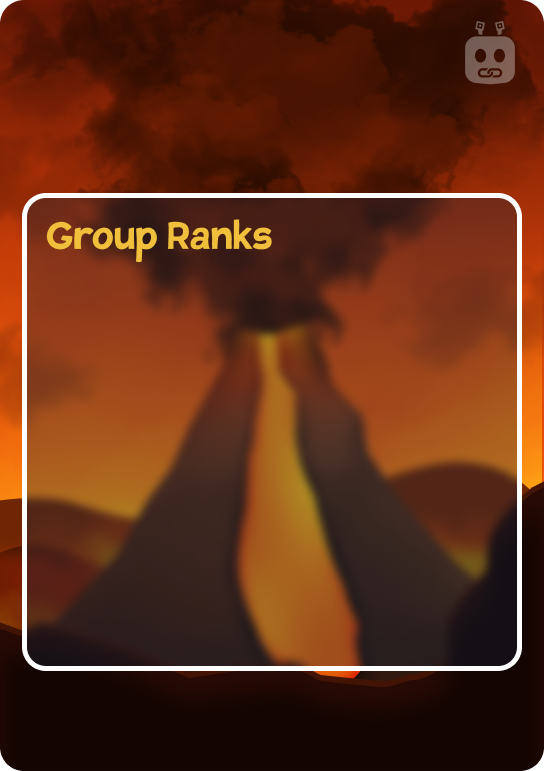
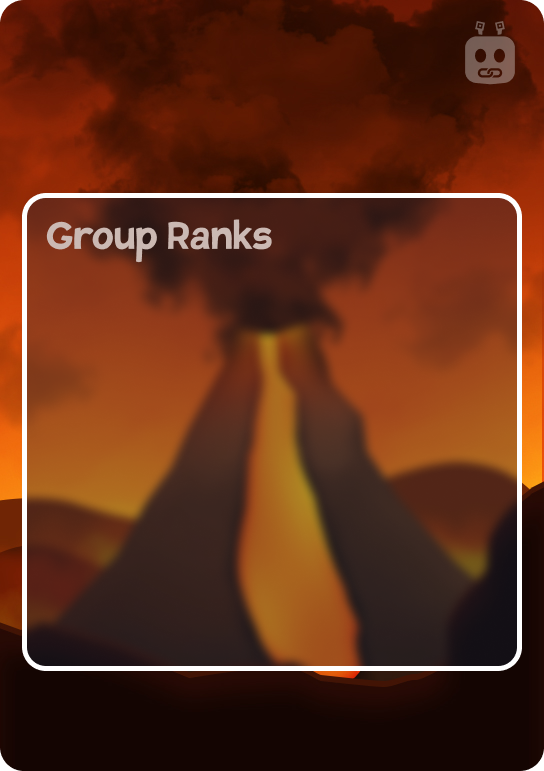
volcano bg update

Changed region(s): [[0.0625, 0.2802, 0.5, 0.3424]]

diff --git a/src/routes/getinfo/front.py b/src/routes/getinfo/front.py
@@ -37,7 +37,12 @@ class Route:
         if banned:
             background = "black"
 
-        background_path = IMAGE_CONFIG.get(background)["paths"]["getinfo"]["front"]
+        background_config = IMAGE_CONFIG[background]
+        background_path = background_config["paths"]["getinfo"]["front"]
+        background_props = background_config.get("props", {})
+        background_hexes = background_config.get("hexes", {})
+
+        primary_color = background_hexes.get("primary_color", (240, 191, 60))
 
         # image storage for closing
         headshot_image = None
@@ -73,17 +78,24 @@ class Route:
 
             if headshot:
                 async with self.session.get(headshot) as resp:
-                    with Image.open("./assets/props/moon.png") as moon_image:
+                    moon_prop = background_props.get("moon", "moon.png")
+                    moon_outline = background_props.get("moon_outline", "moon_outline.png")
+
+                    with Image.open(f"./assets/props/{moon_prop}") as moon_image:
                         with Image.open("./assets/props/moon_outline.png") as moon_outline_image:
                             headshot_buffer = BytesIO(await resp.read())
+
                             headshot_image  = Image.open(headshot_buffer)
                             headshot_image  = headshot_image.resize((220, 220))
 
-                            image.paste(moon_image, (0, 0), moon_image)
-                            image.paste(headshot_image, (160, 70), headshot_image)
+                            if moon_prop:
+                                image.paste(moon_image, (0, 0), moon_image)
 
+                            image.paste(headshot_image, (160, 70), headshot_image)
                             image.paste(background_image, (0, 0), background_image)
-                            image.paste(moon_outline_image, (0, 0), moon_outline_image)
+
+                            if moon_outline:
+                                image.paste(moon_outline_image, (0, 0), moon_outline_image)
 
 
             if overlay:
@@ -112,7 +124,7 @@ class Route:
                         draw.text(
                             ((image.size[0]-width_display_name) / 2, adjusted_name_pos_1),
                             display_name,
-                            (240, 191, 60),
+                            primary_color,
                             font=first_font_size)
 
                         width_username = draw.textsize(username, font=second_font_size)[0]
@@ -138,7 +150,7 @@ class Route:
                 draw.text(
                     (10, roblox_id_age_offset),
                     f"Minted {roblox_age}",
-                    (240, 191, 60),
+                    primary_color,
                     font=self.header5
                 )
 
@@ -146,7 +158,7 @@ class Route:
                 draw.text(
                     (10, roblox_id_age_offset+25),
                     f"#{roblox_id}",
-                    (240, 191, 60),
+                    primary_color,
                     font=self.header5
                 )
 

diff --git a/src/routes/verify/front.py b/src/routes/verify/front.py
@@ -27,7 +27,9 @@ class Route:
         display_name = request.args.get("display_name")
         headshot     = request.args.get("headshot")
 
-        background_path = IMAGE_CONFIG[background]["paths"]["verify"]["front"]
+        background_config = IMAGE_CONFIG[background]
+        background_path = background_config["paths"]["verify"]["front"]
+        background_props = background_config.get("props", {})
 
         # image storage for closing
         headshot_image = None
@@ -63,17 +65,24 @@ class Route:
 
             if headshot:
                 async with self.session.get(headshot) as resp:
-                    with Image.open("./assets/props/moon.png") as moon_image:
+                    moon_prop = background_props.get("moon", "moon.png")
+                    moon_outline = background_props.get("moon_outline", "moon_outline.png")
+
+                    with Image.open(f"./assets/props/{moon_prop}") as moon_image:
                         with Image.open("./assets/props/moon_outline.png") as moon_outline_image:
                             headshot_buffer = BytesIO(await resp.read())
+
                             headshot_image  = Image.open(headshot_buffer)
                             headshot_image  = headshot_image.resize((220, 220))
 
-                            image.paste(moon_image, (0, 0), moon_image)
-                            image.paste(headshot_image, (160, 70), headshot_image)
+                            if moon_prop:
+                                image.paste(moon_image, (0, 0), moon_image)
 
+                            image.paste(headshot_image, (160, 70), headshot_image)
                             image.paste(background_image, (0, 0), background_image)
-                            image.paste(moon_outline_image, (0, 0), moon_outline_image)
+
+                            if moon_outline:
+                                image.paste(moon_outline_image, (0, 0), moon_outline_image)
 
 
             # if overlay:

diff --git a/src/routes/getinfo/back.py b/src/routes/getinfo/back.py
@@ -28,7 +28,12 @@ class Route:
         if banned:
             background = "black"
 
-        background_path = IMAGE_CONFIG.get(background)["paths"]["getinfo"]["back"]
+        background_config = IMAGE_CONFIG[background]
+        background_path = background_config["paths"]["getinfo"]["back"]
+        background_props = background_config.get("props", {})
+        background_hexes = background_config.get("hexes", {})
+
+        primary_color = background_hexes.get("primary_color", (240, 191, 60))
 
         first_font_size = self.header1
         second_font_size = self.header2
@@ -77,7 +82,7 @@ class Route:
                         draw.text(
                             ((image.size[0]-width_display_name) / 2, adjusted_name_pos_1),
                             display_name,
-                            (240, 191, 60),
+                            primary_color,
                             font=first_font_size)
 
                         width_username = draw.textsize(username, font=second_font_size)[0]

diff --git a/src/IMAGES.py b/src/IMAGES.py
@@ -102,6 +102,13 @@ IMAGE_CONFIG = {
                 "front": "assets/backgrounds/getinfo/front/raging_volcano.png",
                 "back": "assets/backgrounds/getinfo/back/raging_volcano.png"
             }
+        },
+        "props": {
+            "moon": "volcano_rock.png",
+            "moon_outline": None
+        },
+        "hexes": {
+            "primary_color": (203, 185, 179)
         }
     },
     "city_life": {

diff --git a/src/routes/backgrounds.py b/src/routes/backgrounds.py
@@ -1,6 +1,5 @@
 from sanic.response import json
 from IMAGES import IMAGE_CONFIG
-import os
 
 
 
